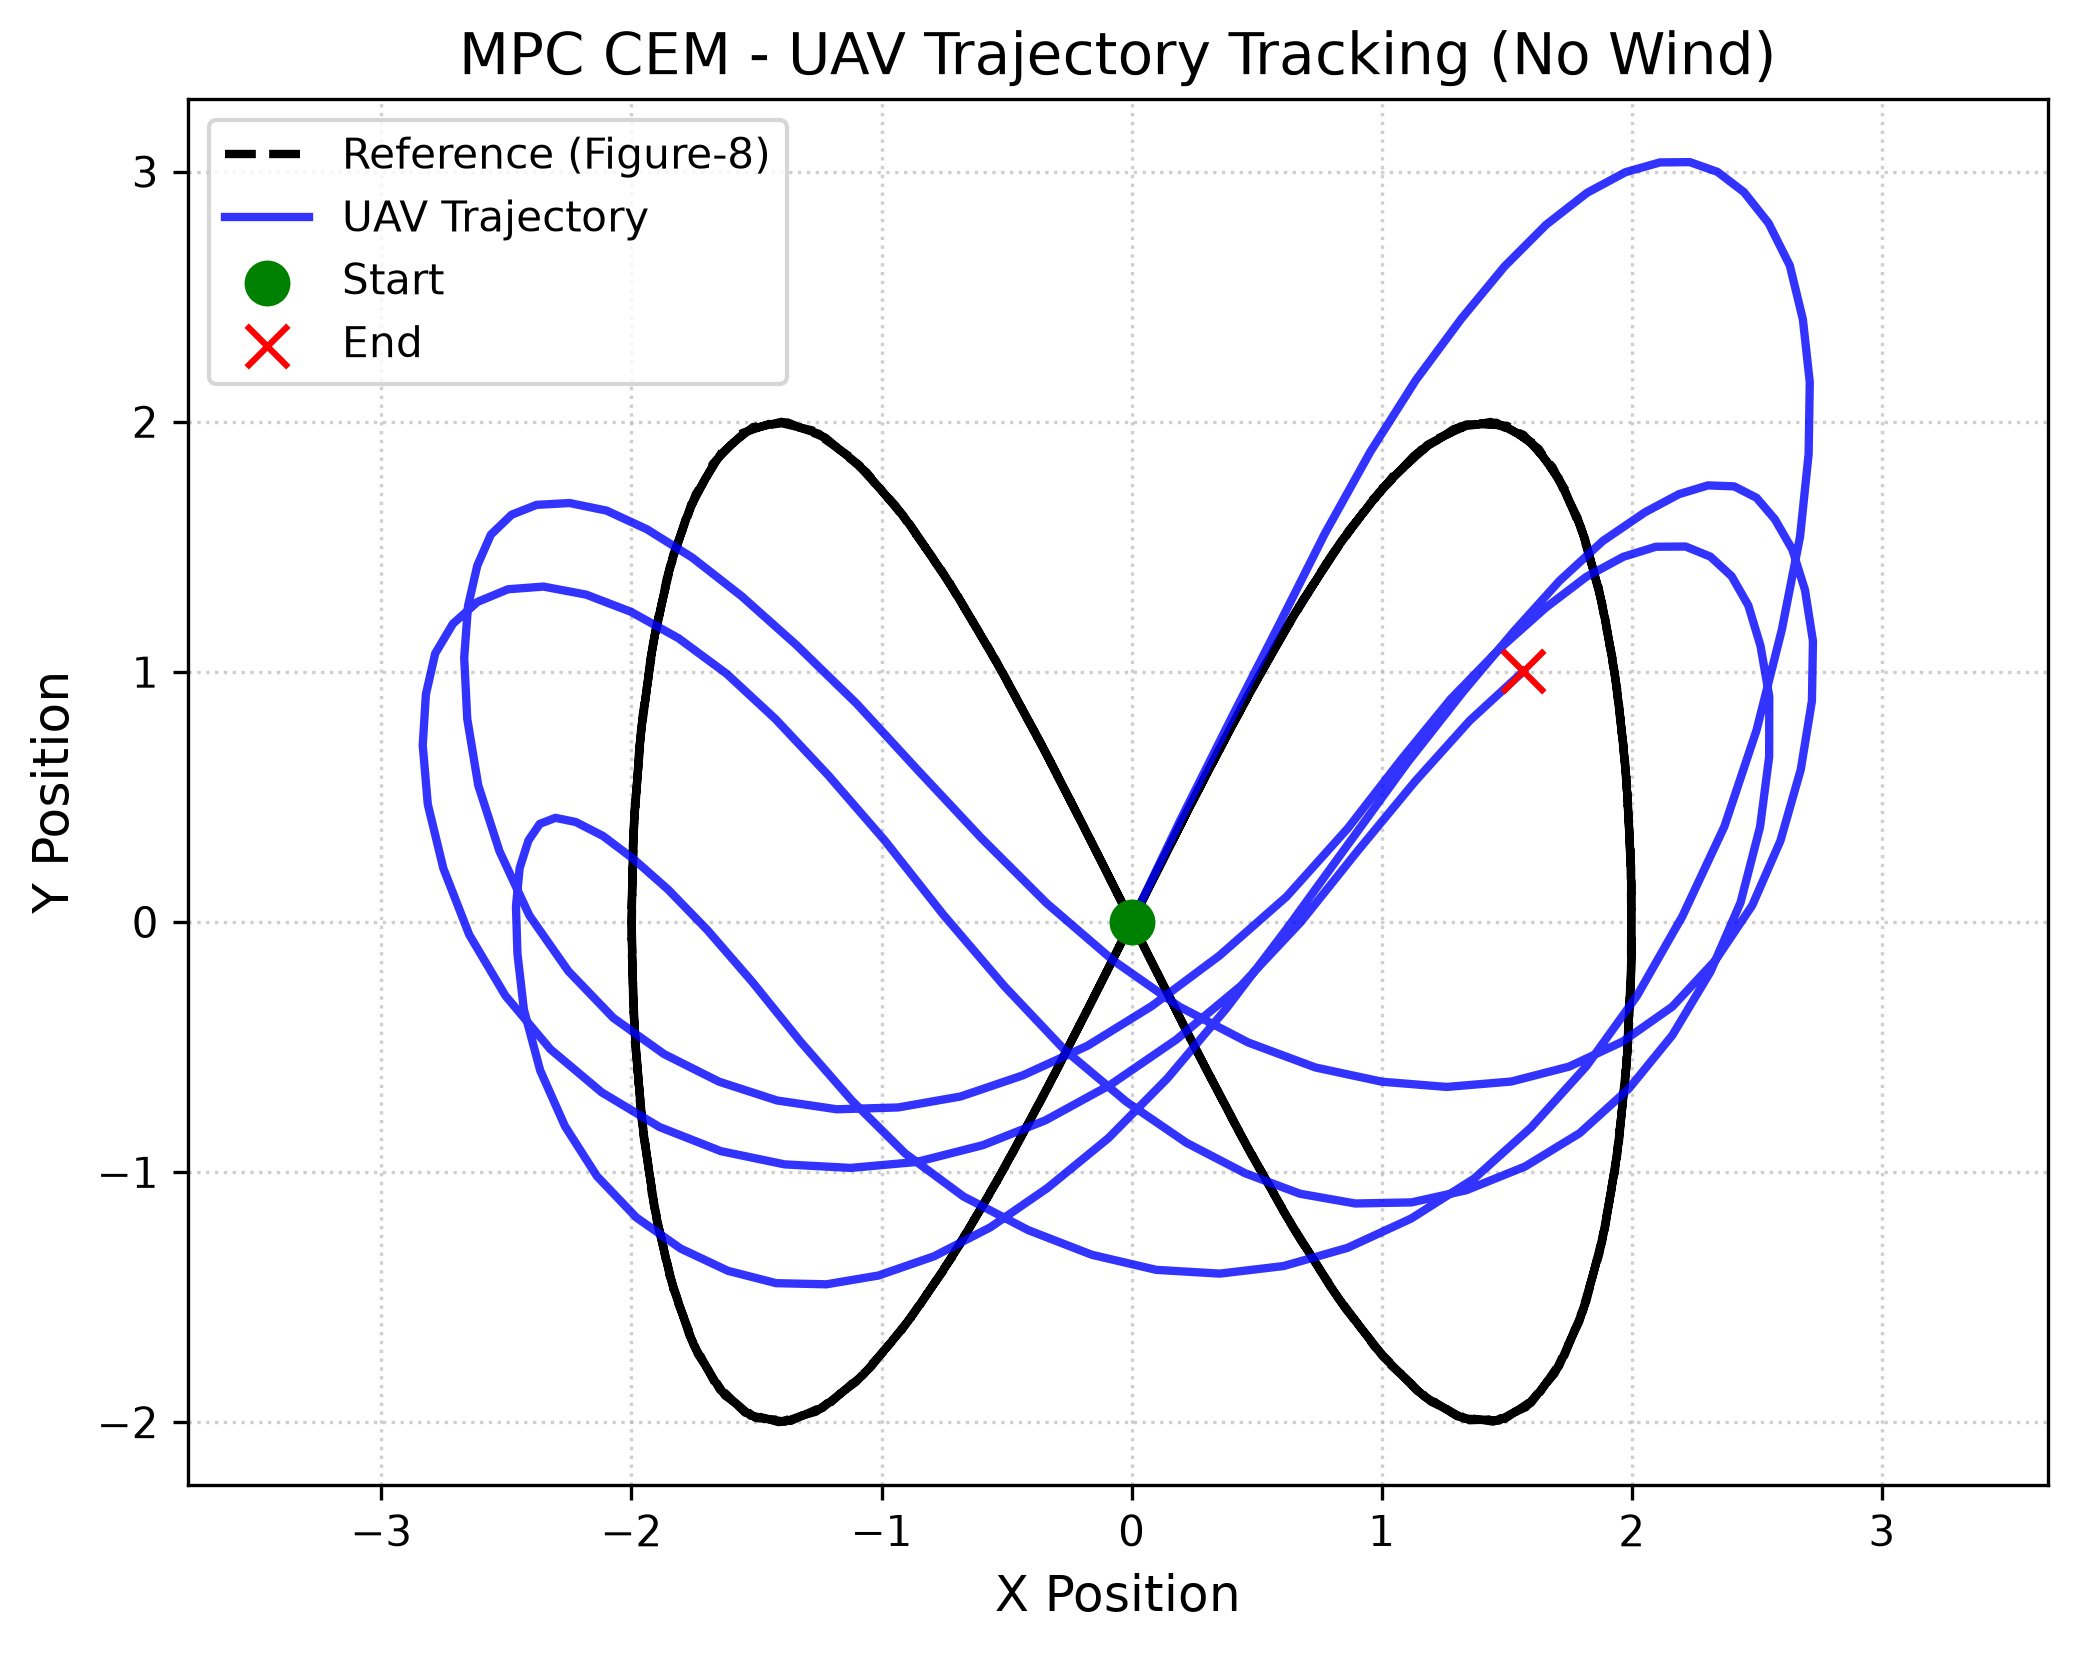
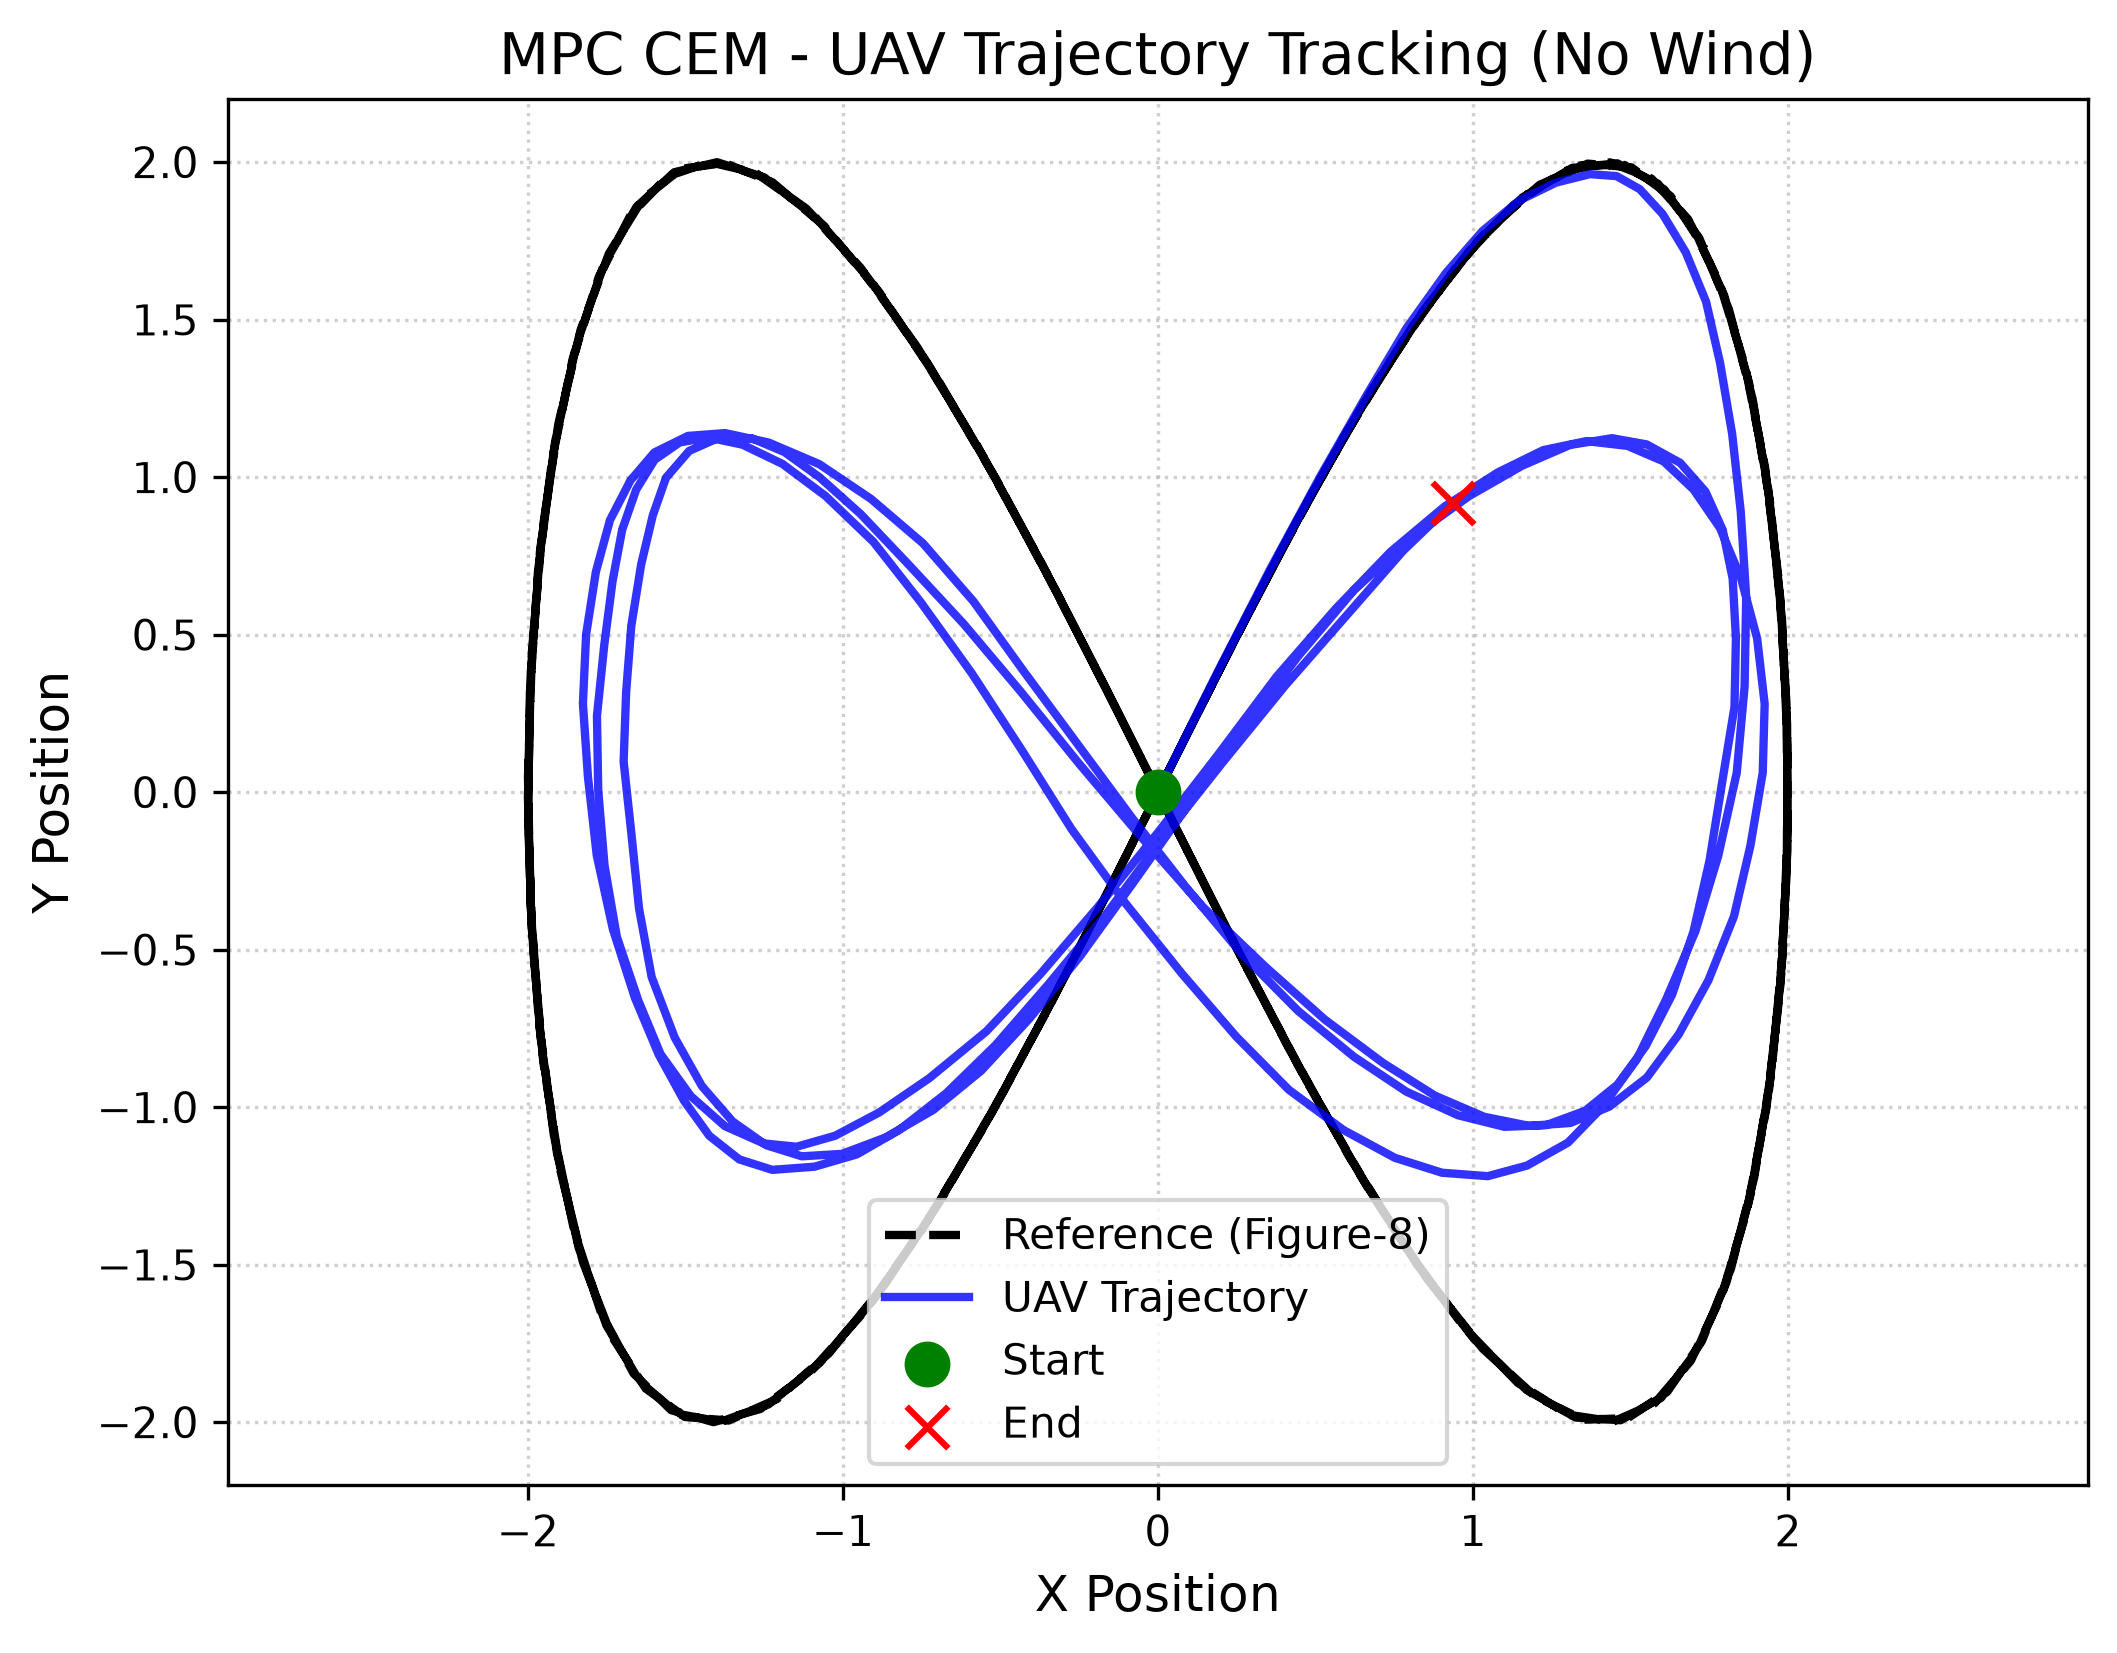
Enrich UAV observations with lookahead horizon
- Modified `UAVEnv` to return a `lookahead` window of 5 future trajectory reference states, expanding the observation to 24D.
- Updated `f_prior_uav` to dynamically shift the reference horizon step-by-step for accurate online BPTT unrolling over the lookahead window.
- Updated `ContinuousPPOTrainer` and `MPCTrainer` state configurations to 24D to accurately benchmark against the enriched lookahead target.

diff --git a/test_uav_vnd.py b/test_uav_vnd.py
@@ -31,29 +31,14 @@ def f_prior(state, action):
 class DifferentiableReward:
     def __init__(self, dt=0.1):
         self.dt = dt
-        # We need a way to track the step t in the BPTT rollout.
-        # But BPTT rollouts start from random buffer states which have different 't'
-        # In the paper, the policy doesn't receive 't', it receives the ref_state in observation.
-
-    def __call__(self, obs, action, next_obs):
-        # We assume the policy's observation contains the current ref_state.
-        # Wait, the trainer passes `state` to f_prior and reward_fn.
-        # If we pass true_state (4D), we don't have ref_state in it.
-        # The trainer expects reward_fn(state, action, next_state).
-
-        # We have a dilemma: The true_state is 4D (px,py,vx,vy), but reward depends on tracking the reference.
-        # To make BPTT work smoothly, we can put the reference state INTO the true_state that we pass to VND!
-        pass
-
-# Let's write a wrapper that makes the 'true_state' for VND contain both the drone state AND the reference state.
 class UAVEnvVNDWrapper:
     def __init__(self, env):
         self.env = env
         self.max_steps = env.max_steps
 
     def _pack(self, obs, info):
-        # obs is already [drone_state, ref_state] (8D)
-        # We will use this 8D vector as the 'true_state' for VND.
+        # obs is already [drone_state(4), ref0(4), ..., refH(4)]
+        # We will use this vector as the 'true_state' for VND.
         return obs
 
     def reset(self):
@@ -67,44 +52,35 @@ class UAVEnvVNDWrapper:
         return true_state, reward, terminated, truncated, info
 
 def f_prior_uav(state, action):
-    # state: [B, 8] -> [px, py, vx, vy, ref_px, ref_py, ref_vx, ref_vy]
+    # state: [B, 24] -> 4 drone state + 5 * 4 reference states
     dt = 0.1
 
-    px = state[:, 0]
-    py = state[:, 1]
-    vx = state[:, 2]
-    vy = state[:, 3]
-    ax = action[:, 0]
-    ay = action[:, 1]
+    px, py = state[:, 0], state[:, 1]
+    vx, vy = state[:, 2], state[:, 3]
+    ax, ay = action[:, 0], action[:, 1]
 
     new_vx = vx + ax * dt
     new_vy = vy + ay * dt
     new_px = px + new_vx * dt
     new_py = py + new_vy * dt
 
-    # For the reference state, the agent can't affect it.
-    # But during BPTT rollout, we need the reference state to advance forward in time!
-    # Because BPTT rolls out multiple steps into the future.
-    # If we don't know 't', we can roughly approximate ref_next = ref_curr + ref_v * dt
-    ref_px = state[:, 4]
-    ref_py = state[:, 5]
-    ref_vx = state[:, 6]
-    ref_vy = state[:, 7]
+    # We shift the reference horizon: ref_t becomes ref_{t+1}, etc.
+    # The last reference point is just duplicated because we don't know the exact curve beyond the horizon
+    # without explicitly recalculating the Lissajous equations here (which we could, but shifting is general).
+    new_refs = state[:, 8:].clone() # take ref1 ... refH
+    last_ref = state[:, -4:]        # take refH
 
-    # Simple linear extrapolation for the reference trajectory for short BPTT horizons
-    # This is a common trick when 't' is not explicitly available.
-    new_ref_px = ref_px + ref_vx * dt
-    new_ref_py = ref_py + ref_vy * dt
-    # Assume constant reference velocity for the short horizon
-    new_ref_vx = ref_vx
-    new_ref_vy = ref_vy
+    new_state = [new_px, new_py, new_vx, new_vy]
 
-    return torch.stack([new_px, new_py, new_vx, new_vy, new_ref_px, new_ref_py, new_ref_vx, new_ref_vy], dim=-1)
+    # Pack back together: [new_drone_state, new_refs, last_ref]
+    return torch.cat([torch.stack(new_state, dim=-1), new_refs, last_ref], dim=-1)
 
 def reward_fn_uav(state, action, next_state):
-    # next_state: [B, 8]
+    # next_state: [B, 24]
     px, py = next_state[:, 0], next_state[:, 1]
     vx, vy = next_state[:, 2], next_state[:, 3]
+
+    # The current reference state for this step is stored in indices 4:8
     ref_px, ref_py = next_state[:, 4], next_state[:, 5]
     ref_vx, ref_vy = next_state[:, 6], next_state[:, 7]
 
@@ -136,7 +112,7 @@ def evaluate_uav(trainer, env, episodes=5):
 
             if len(history) < trainer.context_len:
                 pad = trainer.context_len - len(history)
-                states = [np.zeros(8)] * pad + [h[0] for h in history]
+                states = [np.zeros(24)] * pad + [h[0] for h in history]
                 actions = [np.zeros(2)] * pad + [h[1] for h in history]
             else:
                 states = [h[0] for h in history[-trainer.context_len:]]
@@ -175,7 +151,7 @@ def main():
     print(f"Using device: {device}")
 
     trainer = ContinualVNDTrainer(
-        state_dim=8,
+        state_dim=24,
         action_dim=2,
         f_prior=f_prior_uav,
         reward_fn=reward_fn_uav,

diff --git a/uav_env.py b/uav_env.py
@@ -6,7 +6,7 @@ class UAVEnv(gym.Env):
     """
     Continuous 2D UAV Trajectory Tracking Environment.
     State: [px, py, vx, vy] - Position and velocity of the UAV.
-    Observation: [px, py, vx, vy, ref_px, ref_py, ref_vx, ref_vy]
+    Observation: [px, py, vx, vy, ref0, ref1, ..., refH]
     Action: [ax, ay] - Commanded accelerations.
     Hidden Context: Wind [wx, wy] altering the acceleration dynamics.
     """
@@ -20,12 +20,13 @@ class UAVEnv(gym.Env):
         self.dt = 0.1
         self.max_steps = 200
         self.wind_change_freq = 50
+        self.lookahead = 5 # Number of future reference points to include
 
         # Action: [ax, ay] bounded between [-5, 5]
         self.action_space = spaces.Box(low=-5.0, high=5.0, shape=(2,), dtype=np.float32)
 
-        # Observation: [state(4), ref_state(4)]
-        self.observation_space = spaces.Box(low=-np.inf, high=np.inf, shape=(8,), dtype=np.float32)
+        # Observation: [state(4), ref_t(4), ref_{t+1}(4), ..., ref_{t+H-1}(4)]
+        self.observation_space = spaces.Box(low=-np.inf, high=np.inf, shape=(4 + 4 * self.lookahead,), dtype=np.float32)
 
         self.reset()
 
@@ -67,8 +68,10 @@ class UAVEnv(gym.Env):
         return self._get_obs(), {"true_state": self.state.copy()}
 
     def _get_obs(self):
-        ref_state = self._get_reference(self.step_count)
-        return np.concatenate([self.state, ref_state]).astype(np.float32)
+        obs = [self.state]
+        for i in range(self.lookahead):
+            obs.append(self._get_reference(self.step_count + i))
+        return np.concatenate(obs).astype(np.float32)
 
     def step(self, action):
         self.step_count += 1

diff --git a/continual_vnd/trainer.py b/continual_vnd/trainer.py
@@ -177,7 +177,7 @@ class ContinualVNDTrainer:
             # Temporary workaround for UAV action scaling
             # In a clean implementation, ContinualVNDTrainer should accept an action_scale parameter
             scaled_actions = actions
-            if self.state_dim == 8 and self.action_dim == 2:
+            if self.state_dim == 24 and self.action_dim == 2:
                 scaled_actions = actions * 5.0
 
             # Predict next state using differentiable dynamics model

diff --git a/test_uav_ppo.py b/test_uav_ppo.py
@@ -45,9 +45,9 @@ def main():
     device = "cuda" if torch.cuda.is_available() else "cpu"
     print(f"Using device: {device}")
 
-    # Observation: 8D, Action: 2D Continuous
+    # Observation: 4 + 4*5 = 24D, Action: 2D Continuous
     agent = ContinuousPPOTrainer(
-        state_dim=8,
+        state_dim=24,
         action_dim=2,
         lr_actor=0.0003,
         lr_critic=0.001,
